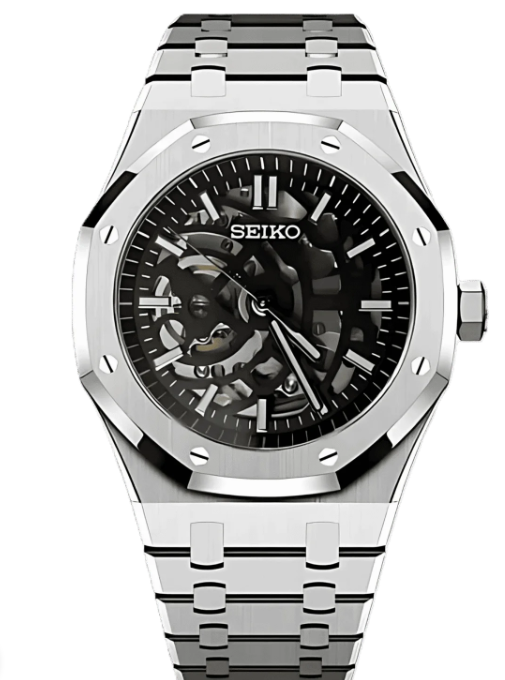
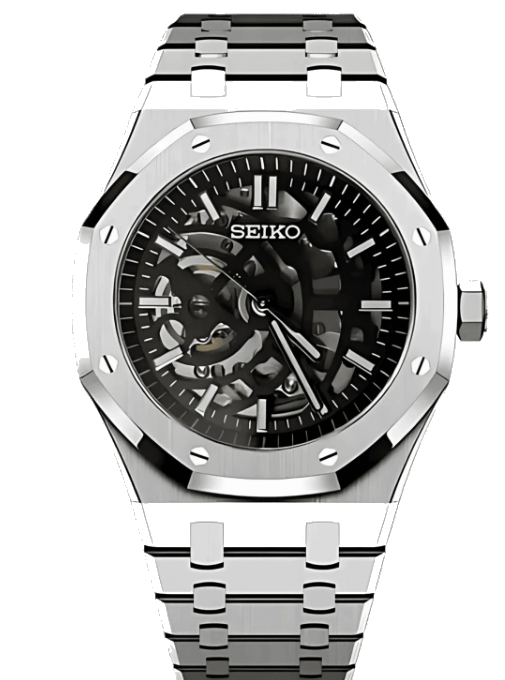
fix: fonds blancs supprimes + GMT .png + Nautilus NH68
- Fond blanc supprime sur watch-seiko, watch-gmt, watch-nautilus,
  watch-royaloak, watch-daydate (toutes les images catalogue)
- GMT: watch-gmt.jpg -> watch-gmt.png (transparent)
- Nautilus: mouvement recommande NH68 (coeur ouvert)

diff --git a/src/components/Catalogue/Catalogue.jsx b/src/components/Catalogue/Catalogue.jsx
@@ -229,7 +229,7 @@ const BtnCardFb = styled.a`
 const watches = [
   { name: 'Panda Daytona',  price: '235 €', stars: 5, tag: 'Best-seller', img: '/images/watch-seiko.png'      },
   { name: 'Submariner',     price: '230 €', stars: 5, tag: 'Signature',   img: '/images/watch-submariner.png' },
-  { name: 'GMT-Master',     price: '235 €', stars: 4, tag: 'Populaire',   img: '/images/watch-gmt.jpg'        },
+  { name: 'GMT-Master',     price: '235 €', stars: 4, tag: 'Populaire',   img: '/images/watch-gmt.png'        },
   { name: 'Royal Oak',      price: '240 €', stars: 5, tag: 'Exclusif',    img: '/images/watch-royaloak.png'   },
   { name: 'Nautilus',       price: '270 €', stars: 4, tag: 'Premium',     img: '/images/watch-nautilus.png'   },
   { name: 'Santos',         price: '230 €', stars: 4, tag: 'Exclusif',    img: '/images/watch-santos.png'     },
